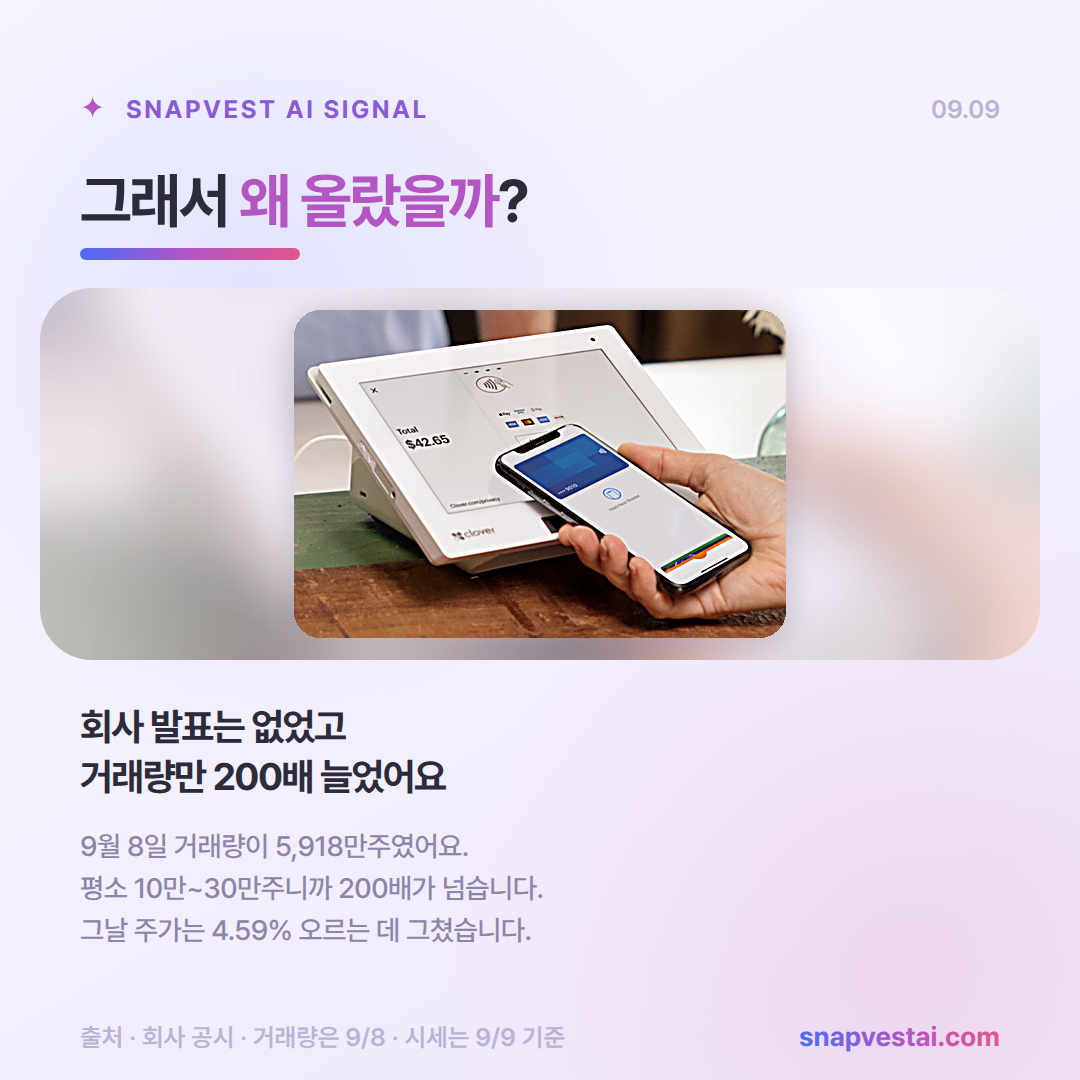
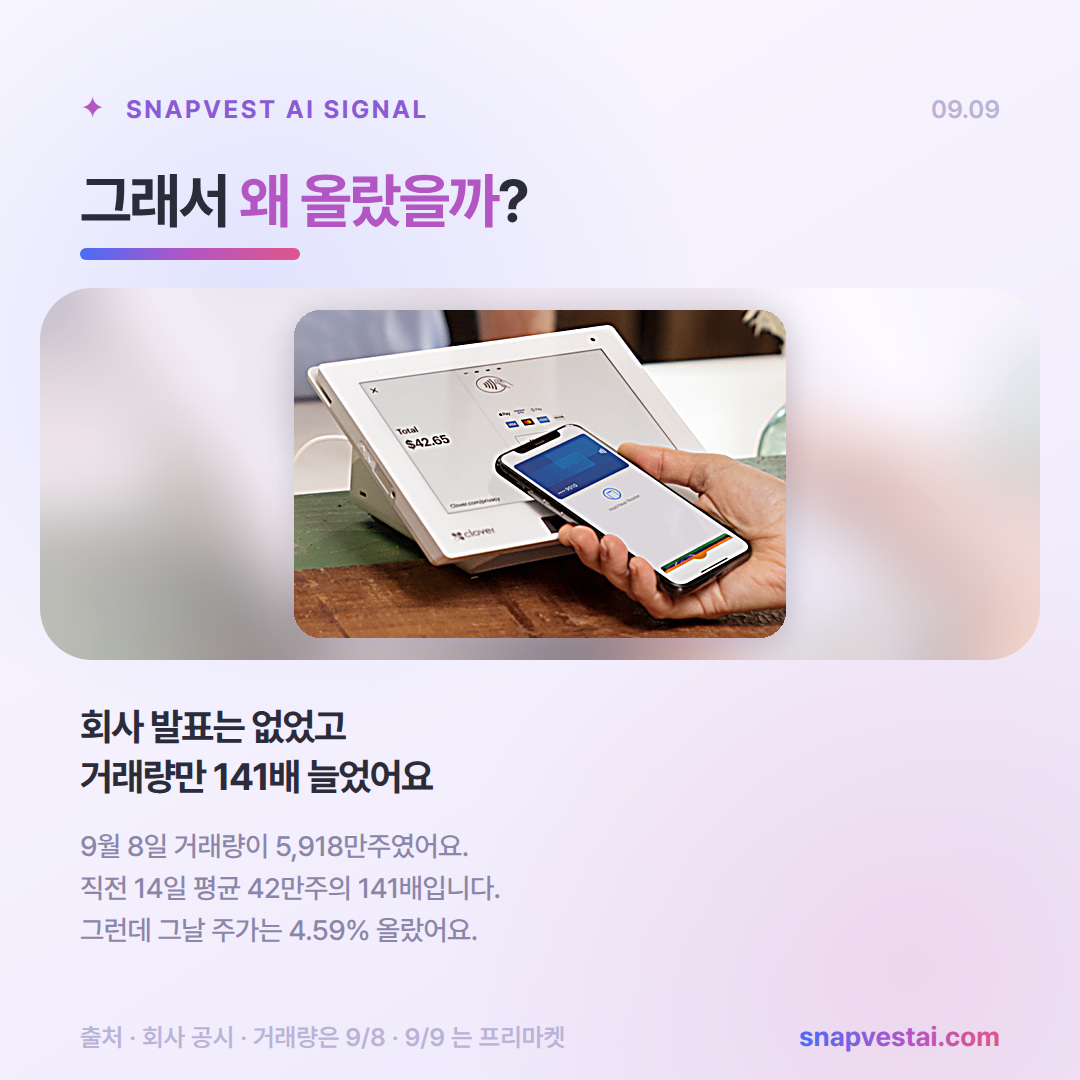
cardnews(OLB): 4번 카드 완성 — 표기 종가 대신 등락률로 역산한 봉
토스 표기 종가가 소수 둘째 자리 반올림인데 27센트짜리 주식이라 1센트가
3.7%p 다. 그대로 봉으로 쓰면 체인이 최대 3.58%p 깨지고, 표기가 같은데
등락률이 +0.47%인 날들이 없는 보합으로 굳는다. 등락률로 종가를 역산했고
9/9 을 $0.3550 으로 놓았을 때 16일 중 15일이 표기와 맞는다. 08.18 한 날만
1센트 어긋나는데 어느 기준값으로도 16일 전부 맞는 조합이 없어 그대로 뒀다.

시·고·저는 토스 모바일에 없어 SNOW 회차와 같이 전일 종가를 시가로 삼았다.

9/9 은 프리마켓이다 — 화면 시계가 11시 43분이고 미국 정규장은 22시 30분에
열린다. 거래대금 $1,284천 / 340만 주 = VWAP $0.3775 로 지금 값보다 높다.

지표 MFI 97 / RSI 68 / %B 1.14. MFI 는 계산 창 유입 1,852만 달러 중 9/8
하루가 1,617만 달러(87%)이고 유출이 46만 달러뿐이라 나온 값이다 — "돈이
계속 들어온다"가 아니라 "하루가 창 전체를 채웠다"는 뜻이라 SOURCES 에
그렇게 적었다.

3번 카드 문구를 확인된 값으로 바꿨다. 200배 -> 직전 14일 평균 42만 주의 141배.

Claude-Session: https://claude.ai/code/session_01RMiKh4knUhoRQtbEt8tjeA

Changed region(s): [[0.0611, 0.7944, 0.4889, 0.8861], [0.1833, 0.7028, 0.4278, 0.7333], [0.3667, 0.9472, 0.5194, 0.9778]]

diff --git a/cardnews/SOURCES.md b/cardnews/SOURCES.md
@@ -33,6 +33,115 @@ $0.36 은 $1 요건의 3분의 1 수준이다.
 
 **자료의 결론(공시가 아니라 수급)이 맞다.**
 
+## ★★ 표기 종가로는 봉을 못 그린다 — 등락률로 역산했다
+
+토스 일별 시세 화면을 받았다. **그런데 종가가 소수 둘째 자리 반올림이다.**
+27센트짜리 주식에서 1센트는 **3.7%p** 다. 표기 종가로 체인을 검산하면
+이렇게 깨진다.
+
+```
+08.19  표기 +4.11%   반올림종가로 계산 +7.69%   오차 3.58%p  ✕
+08.25  표기 +9.24%   반올림종가로 계산 +10.34%  오차 1.10%p  ✕
+09.03  표기 +1.43%   반올림종가로 계산  +0.00%  오차 1.43%p  ✕
+09.09  표기 +31.77%  반올림종가로 계산 +33.33%  오차 1.56%p  ✕
+                                        최대 오차 3.58%p
+```
+
+`$0.29 → $0.29` 처럼 **표기가 같은데 등락률이 +0.47%인 날**이 여럿이다.
+표기 종가를 그대로 봉으로 쓰면 없는 보합이 생기고 있는 등락이 사라진다.
+
+**그래서 등락률로 종가를 역산했다.** 9/9 를 $0.3550 으로 놓았을 때
+16일 중 15일이 표기와 맞는다.
+
+| 날짜 | 역산 종가 | 표기 | 등락률 | 거래량 |
+|---|---|---|---|---|
+| 08.18 | $0.2661 | $0.26 ⚠ | -6.28% | 304,812 |
+| 08.19 | $0.2770 | $0.28 ✓ | +4.11% | 505,945 |
+| 08.20 | $0.2919 | $0.29 ✓ | +5.37% | 307,709 |
+| 08.21 | $0.2932 | $0.29 ✓ | +0.47% | 206,027 |
+| 08.24 | $0.2933 | $0.29 ✓ | +0.03% | 206,564 |
+| 08.25 | $0.3204 | $0.32 ✓ | +9.24% | 2,465,260 |
+| 08.26 | $0.3175 | $0.32 ✓ | -0.92% | 752,518 |
+| 08.27 | $0.3017 | $0.30 ✓ | -4.96% | 311,332 |
+| 08.28 | $0.3023 | $0.30 ✓ | +0.19% | 138,223 |
+| 08.31 | $0.2919 | $0.29 ✓ | -3.45% | 82,212 |
+| 09.01 | $0.2876 | $0.29 ✓ | -1.48% | 74,213 |
+| 09.02 | $0.2675 | $0.27 ✓ | -6.99% | 182,349 |
+| 09.03 | $0.2713 | $0.27 ✓ | +1.43% | 242,131 |
+| 09.04 | $0.2576 | $0.26 ✓ | -5.05% | 108,236 |
+| 09.08 | $0.2694 | $0.27 ✓ | +4.59% | **59,185,519** |
+| 09.09 | $0.3550 | $0.36 ✓ | +31.77% | 3,401,424 |
+
+⚠ **08.18 한 날만 1센트 안 맞는다.** 역산은 $0.2661(→$0.27)인데 표기는
+$0.26 이다. 어느 기준값을 넣어도 16일이 전부 맞는 조합이 없다 —
+표기 반올림과 등락률 반올림이 겹친 한계다. **구간 첫날이라 봉 모양에는
+영향이 없고, 있는 그대로 남겨 둔다.**
+
+**시·고·저는 토스 모바일 화면에 없다.** 그래서 SNOW 회차와 같이
+**전일 종가를 시가로** 삼았다. 없는 값을 지어내지 않는다.
+
+## ★ 9월 9일은 프리마켓이다
+
+화면 시계가 **11시 43분**이다. 미국 정규장은 한국 시간 22시 30분에 열린다.
+**9/9 정규장은 아직 시작도 안 했다.**
+
+```
+09.09 거래량      3,401,424주
+09.09 거래대금    약 $1,284,000
+      → VWAP     $0.3775        ← 지금 값 $0.36 보다 높다
+```
+
+프리마켓에서 더 높이 갔다가 밀렸다는 뜻이다. **정규장이 닫히면 마지막
+봉과 지표 세 개가 바뀐다.** 3번·4번 카드 하단에 프리마켓이라고 적었다.
+
+## ★ 이 회차의 그림 — 물량이 먼저, 가격이 나중
+
+```
+9/8 정규장   거래량 59,185,519주   등락률 +4.59%
+9/9 프리마켓 거래량  3,401,424주   등락률 +31.77%
+```
+
+**물량이 통째로 손을 바꾼 날에는 가격이 안 움직였고, 그 다음 날
+가격이 튀었다.** 4번 카드에서 거래량 막대와 봉이 한 칸씩 어긋나 보이는
+이유가 이것이다.
+
+```
+발행주식 (시총 $627만 ÷ $0.36)   17,416,667주
+9/8 거래량                       59,185,519주
+회전율                           3.40배
+9/8 거래대금                     약 $1,620만 = 시가총액의 2.6배
+직전 14일 평균 거래량              420,538주  → 9/8 은 141배
+  (8/25 급증일 2,465,260 제외시   263,252주  → 225배)
+직전 14일 중앙값                  224,348주  → 264배
+```
+
+## 지표 — 위 16일로 직접 계산
+
+| 지표 | 값 | 계산 |
+|---|---|---|
+| MFI(14) | **97** · 자금 유입 극단 | 종가 × 거래량 |
+| RSI(14) | **68** · 과열 구간 진입 | 종가 변화폭 14일 |
+| 볼린저 %B | **1.14** · 상단 밴드 돌파 | 16일 이동평균 ± 2σ (표본표준편차) |
+
+```
+볼린저   중심 $0.2956 · σ 0.0252 · 하단 $0.2452 · 상단 $0.3460
+```
+
+**MFI 97 이 나온 이유를 반드시 같이 말해야 한다.**
+
+```
+계산 창(8/20~9/9) 자금 유입   1,852만 달러
+  중 9/8 하루                 1,617만 달러 (87%)
+계산 창 자금 유출                46만 달러
+```
+
+유출이 46만 달러뿐이다. 하락한 날들의 거래량이 7만~75만 주로 워낙
+적었기 때문이다. **MFI 97 은 "돈이 계속 들어오고 있다" 가 아니라
+"하루치 거래량이 창 전체를 채웠다" 는 뜻이다.**
+
+지난 회차(BRNX)는 MFI 25 · RSI 48 로 갈렸는데, 이번엔 셋이 전부 같은
+쪽을 가리킨다. **다만 그 값을 만든 게 하루다.**
+
 ## 시세 — 사용자 제공 (독립 검증 못 함)
 
 | 항목 | 값 |
@@ -164,12 +273,10 @@ EBITDA -$502만 · 마진 -53.68%  →  역산 매출 $935만
 
 | 항목 | 지금 | 필요한 것 |
 |---|---|---|
-| **사진 3장** | 없음 | 로고 · 2번 · 3번 카드 사진 |
-| **4번 카드** | **못 만듦** | 토스 일별 시세 표 (시·고·저·종·거래량) |
-| 52주 위치 | `자료 없음` | 같은 화면의 52주 범위 |
-| 9/9 등락률 | 사용자 제공 | 정규장 확정인지 프리마켓인지 |
+| 52주 위치 | `자료 없음` | 토스 종목 화면의 52주 범위 (일별 시세 탭에는 없다) |
+| 9/9 정규장 | 프리마켓 $0.36 | 오늘 장 마감 뒤 시세 (봉 1개 + 지표 3개 갱신) |
+| 3번 카드 사진 | 클로버 단말기 | 클로버는 파이서브 브랜드다. OLB 제품으로 읽힐 수 있다 |
 
-**4번 카드는 지어낼 수 없다.** 봉을 그리려면 연속된 일별 시세가 있어야
-하고, MFI 를 내려면 거래량이 있어야 한다. 토스 일별 시세 화면 한 장이면
-날짜·종가·등락률·거래량·52주 범위가 한 번에 해결된다 — 지난 회차(BRNX)에서
-그 한 장으로 캡처판을 실제 일봉으로 바꿨다.
+**정규장이 닫히면 고칠 곳은 네 군데다.** `config.json` 의 `price` ·
+`change` · `candles` 마지막 봉 · `gauges` 3개, 그리고 3번·4번 카드 하단의
+`프리마켓` 표기.
